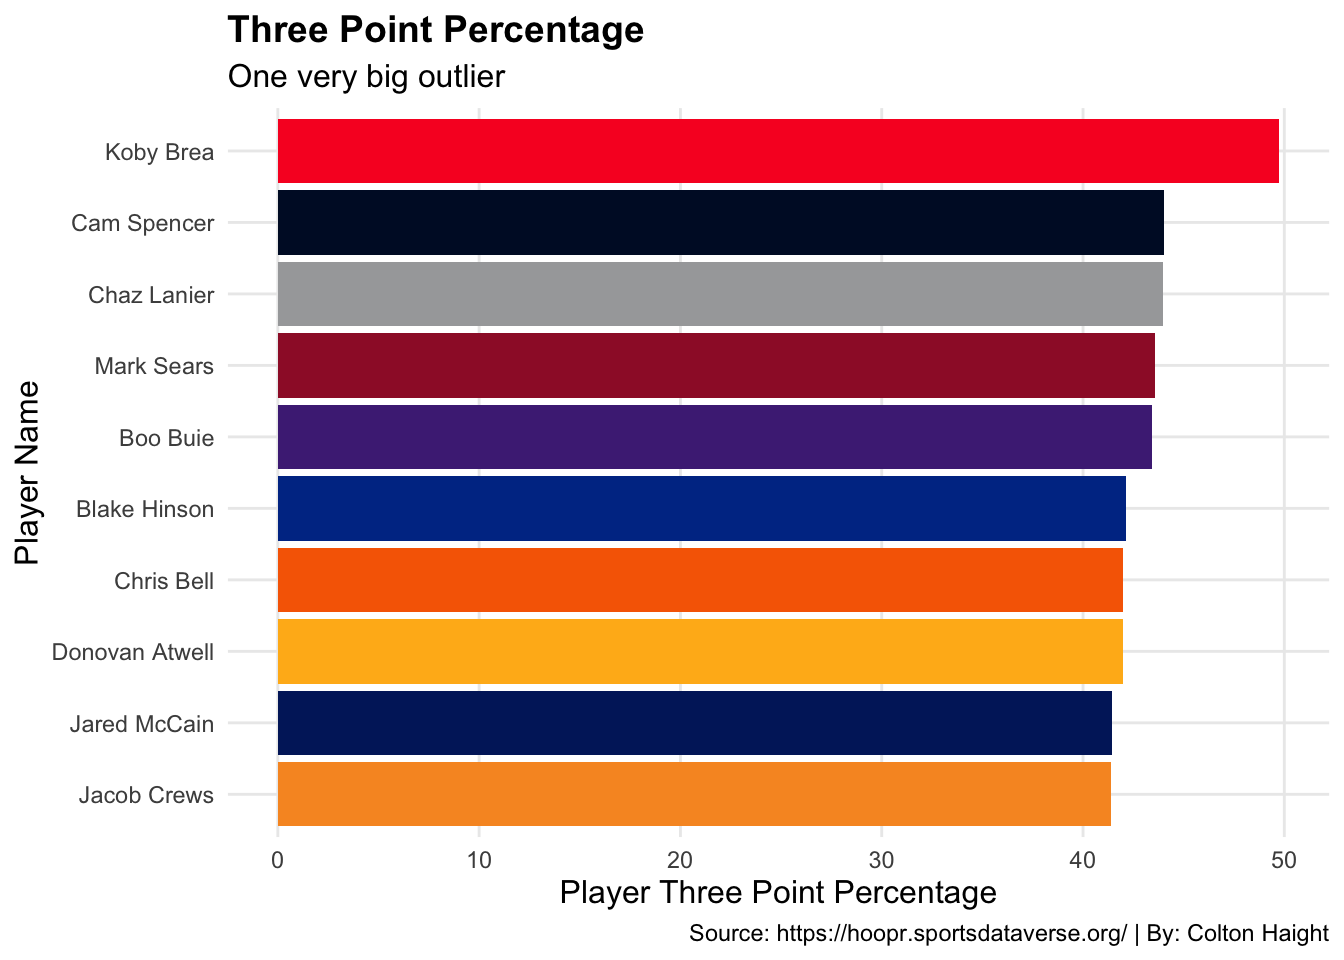
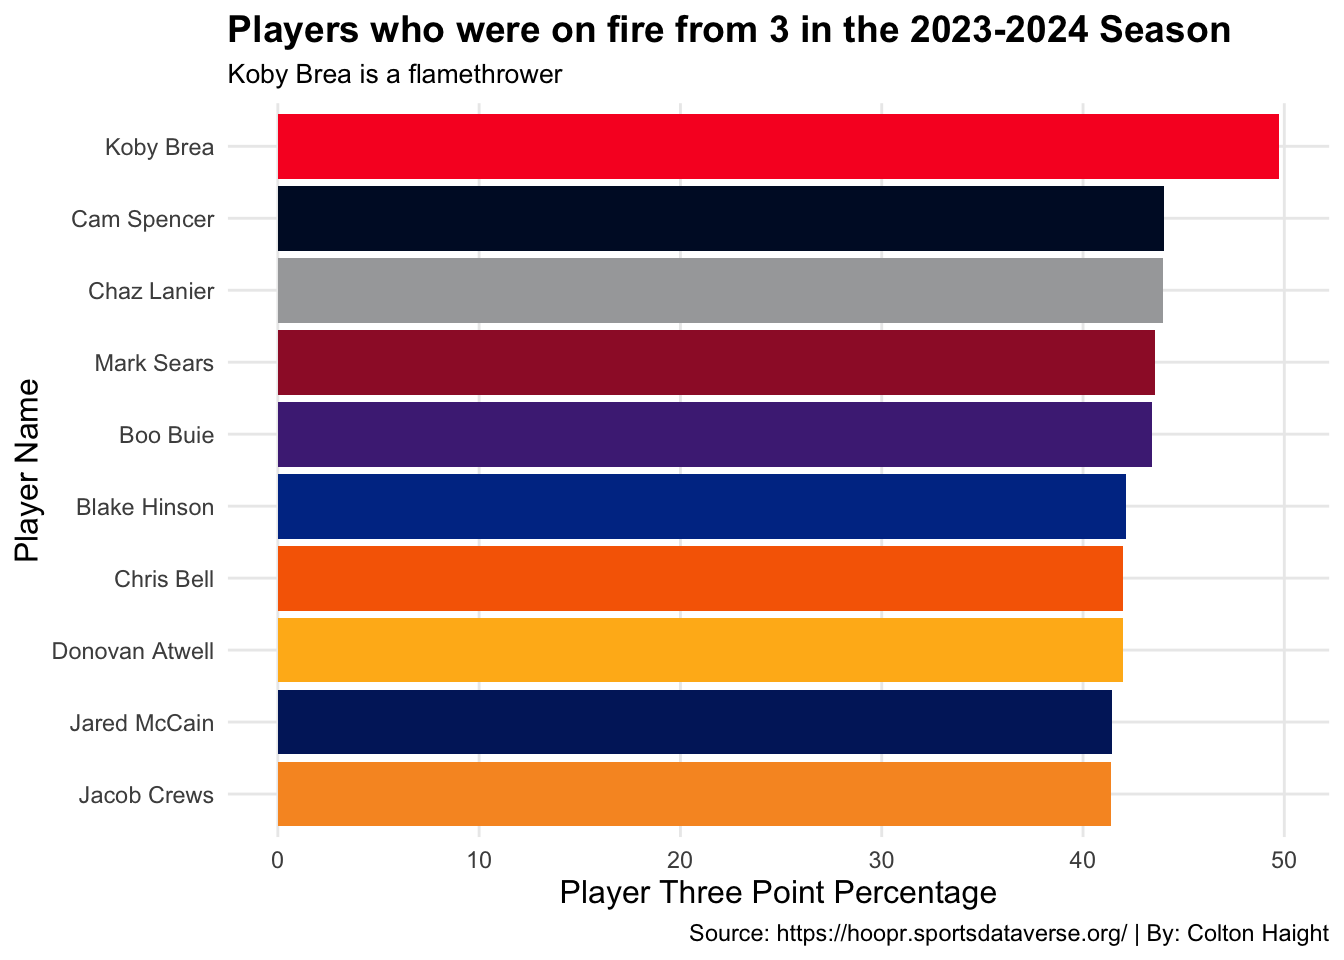
added a lot of text

diff --git a/posts/best-3pt-shooter-mcbb-2024/index.html b/posts/best-3pt-shooter-mcbb-2024/index.html
@@ -189,9 +189,9 @@ pre > code.sourceCode > span > a:first-child::before { text-decoration: underlin
 
 
 
-<p>Three point shooting is a relatively new concept in the sport of basketball. After this season, NCAA men’s basketball will have been around for 130 years. That’s an extremely long amount of time. But the three point line has only been a part of the game of basketball since 1986. Only about 40 years of the 130 year history of the game there has been a three point line. But with recent styles of play and popularity it seems like it could have been around for the entire time basketball has been an organized sport.</p>
+<p>Three point shooting is a relatively new concept in the sport of basketball. After this season, NCAA men’s basketbal will have been around for <a href="https://www.ncaa.com/news/basketball-men/article/2023-01-18/what-we-know-about-first-college-basketball-game-ever-played"><code>130 years</code></a>. That’s an extremely long amount of time. But the <a href="https://www.usab.com/news/2014/01/history-of-the-3-pointer"><code>three point line</code></a> has only been a part of the game of basketball since 1986. Only about 40 years of the 130 year history of the game there has been a three point line. But with recent styles of play and popularity it seems like it could have been around for the entire time basketball has been an organized sport.</p>
 <p>The recent surge in the volume of three pointers shot has risen a significant amount over just the last 10-15 years thanks to the success of Stephen Curry and the Golden State Warriors during their dynasty run. If you can not shoot three pointers in today’s game, you are falling behind.</p>
-<p>In professional basketball it is pretty easy to see who the best shooters are because there are only 30 teams and 18 players per team roster, or 540 players. But college basketball is a bit harder to figure out. There are a whopping 351 NCAA Division 1 men’s college basketball teams and with 15 players per roster that brings a total of 5,265 players!</p>
+<p>In professional basketball it is pretty easy to see who the best shooters are because there are only 30 teams and 18 players per team roster, or <a href="https://www.spotrac.com/news/_/id/2487/the-nbas-vanishing-15th-roster-spot#:~:text=The%20reality%20is%20that%20there,and%2090%20two%2Dway%20spots."><code>540</code></a> players. But college basketball is a bit harder to figure out. There are a whopping <a href="https://www.ncsasports.org/mens-basketball/division-1-colleges"><code>351</code></a> NCAA Division 1 men’s college basketball teams and with 15 players per roster that brings a total of 5,265 players!</p>
 <p>In this post we will be trying to figure out who the best three point shooter is in Division 1 men’s college basketball over the 2023-2024 season.</p>
 <p>The hoopR package from the <a href="https://www.sportsdataverse.org/packages"><code>sportsdataverse</code></a> and <a href="https://www.espn.com/mens-college-basketball/stats/player/_/season/2024/table/offensive/sort/avgPoints/dir/desc"><code>ESPN</code></a> have given me the data to help us figure out who could be the best three point shooter in all of D1 men’s college basketball last season.</p>
 <p>Let’s start by looking at a plot of all D1 men’s college basketball players who shot a total of at least 200 three pointers last season, comparing the total three pointers a player made to the amount of three point shots they took.</p>
@@ -235,7 +235,7 @@ pre > code.sourceCode > span > a:first-child::before { text-decoration: underlin
 <span id="cb1-35"><a href="#cb1-35" aria-hidden="true" tabindex="-1"></a>  <span class="fu">theme</span>(</span>
 <span id="cb1-36"><a href="#cb1-36" aria-hidden="true" tabindex="-1"></a>    <span class="at">plot.title =</span> <span class="fu">element_text</span>(<span class="at">size =</span> <span class="dv">14</span>, <span class="at">face =</span> <span class="st">"bold"</span>),</span>
 <span id="cb1-37"><a href="#cb1-37" aria-hidden="true" tabindex="-1"></a>    <span class="at">axis.title =</span> <span class="fu">element_text</span>(<span class="at">size =</span> <span class="dv">12</span>), </span>
-<span id="cb1-38"><a href="#cb1-38" aria-hidden="true" tabindex="-1"></a>    <span class="at">plot.subtitle =</span> <span class="fu">element_text</span>(<span class="at">size =</span> <span class="dv">12</span>), </span>
+<span id="cb1-38"><a href="#cb1-38" aria-hidden="true" tabindex="-1"></a>    <span class="at">plot.subtitle =</span> <span class="fu">element_text</span>(<span class="at">size =</span> <span class="dv">10</span>), </span>
 <span id="cb1-39"><a href="#cb1-39" aria-hidden="true" tabindex="-1"></a>    <span class="at">panel.grid.minor =</span> <span class="fu">element_blank</span>()</span>
 <span id="cb1-40"><a href="#cb1-40" aria-hidden="true" tabindex="-1"></a>  )</span></code><button title="Copy to Clipboard" class="code-copy-button"><i class="bi"></i></button></pre></div>
 </details>
@@ -272,7 +272,7 @@ pre > code.sourceCode > span > a:first-child::before { text-decoration: underlin
 <span id="cb2-19"><a href="#cb2-19" aria-hidden="true" tabindex="-1"></a>  <span class="fu">theme</span>(</span>
 <span id="cb2-20"><a href="#cb2-20" aria-hidden="true" tabindex="-1"></a>    <span class="at">plot.title =</span> <span class="fu">element_text</span>(<span class="at">size =</span> <span class="dv">14</span>, <span class="at">face =</span> <span class="st">"bold"</span>),</span>
 <span id="cb2-21"><a href="#cb2-21" aria-hidden="true" tabindex="-1"></a>    <span class="at">axis.title =</span> <span class="fu">element_text</span>(<span class="at">size =</span> <span class="dv">12</span>), </span>
-<span id="cb2-22"><a href="#cb2-22" aria-hidden="true" tabindex="-1"></a>    <span class="at">plot.subtitle =</span> <span class="fu">element_text</span>(<span class="at">size =</span> <span class="dv">12</span>), </span>
+<span id="cb2-22"><a href="#cb2-22" aria-hidden="true" tabindex="-1"></a>    <span class="at">plot.subtitle =</span> <span class="fu">element_text</span>(<span class="at">size =</span> <span class="dv">10</span>), </span>
 <span id="cb2-23"><a href="#cb2-23" aria-hidden="true" tabindex="-1"></a>    <span class="at">panel.grid.minor =</span> <span class="fu">element_blank</span>()</span>
 <span id="cb2-24"><a href="#cb2-24" aria-hidden="true" tabindex="-1"></a>)</span></code><button title="Copy to Clipboard" class="code-copy-button"><i class="bi"></i></button></pre></div>
 </details>
@@ -285,9 +285,9 @@ pre > code.sourceCode > span > a:first-child::before { text-decoration: underlin
 </div>
 </div>
 <p>The two outliers are Jack Gohlke of the Oakland Golden Grizzlies and Tyler Thomas of the Hofstra Pride. The sheer number of three pointers shot and made by these two players last season are head and shoulders above every other player in men’s college basketball. Gohlke made 137 three pointers on the season while Thomas made 125 three pointers.</p>
-<p>Jack Gohlke had a crazy run in the NCAA Men’s Tournament last season where he went 10-20 from behind the arc in an upset win over 3rd seeded Kentucky as the 14th seed. He also knocked down 6 more threes in the next game of the tournament against NC State but fell short and were defeated.</p>
-<p>Tyler Thomas and Hofstra unfortunately failed to reach the NCAA Tournament last season but he still had a great three point shooting season.</p>
-<p>The next best way to judge how good of a shooter a player is will be by looking at the percentage they make. In any level of basketball shooting 40% on three pointers means you are an extremely efficient shooter, so let’s narrow down our group of players from before to players who made at least 40% of the three pointers they shot last season. Let’s also plot out the amount of points these players scored because a great shooter should also have a good variety of ways to get points in their arsenal. The size of dots will also be based off of the amount of threes a player made last season.</p>
+<p><a href="https://www.espn.com/mens-college-basketball/player/gamelog/_/id/5177205/jack-gohlke"><code>Jack Gohlke</code></a> had a crazy run in the NCAA Men’s Tournament last season where he went 10-20 from behind the arc in an upset win over 3rd seeded Kentucky as the 14th seed. He also knocked down 6 more threes in the next game of the tournament against NC State but fell short and were defeated.</p>
+<p><a href="https://www.espn.com/mens-college-basketball/player/gamelog/_/id/4593126/tyler-thomas"><code>Tyler Thomas</code></a> and Hofstra unfortunately failed to reach the NCAA Tournament last season but he still had a great three point shooting season.</p>
+<p>The next best way to judge how good of a shooter a player is will be by looking at the percentage they make. In any level of basketball shooting 40% on three pointers means you are an extremely efficient shooter, so let’s narrow down our group of players from before to players who made at least 40% of the three pointers they shot last season. Let’s also plot out the amount of points these players scored because a great three point shooter should also have a good amount of points. The size of dots will also be based off of the amount of threes a player made last season.</p>
 <div class="cell">
 <details class="code-fold">
 <summary>Code</summary>
@@ -320,7 +320,7 @@ pre > code.sourceCode > span > a:first-child::before { text-decoration: underlin
 <span id="cb3-27"><a href="#cb3-27" aria-hidden="true" tabindex="-1"></a>  <span class="fu">theme</span>(</span>
 <span id="cb3-28"><a href="#cb3-28" aria-hidden="true" tabindex="-1"></a>    <span class="at">plot.title =</span> <span class="fu">element_text</span>(<span class="at">size =</span> <span class="dv">14</span>, <span class="at">face =</span> <span class="st">"bold"</span>),</span>
 <span id="cb3-29"><a href="#cb3-29" aria-hidden="true" tabindex="-1"></a>    <span class="at">axis.title =</span> <span class="fu">element_text</span>(<span class="at">size =</span> <span class="dv">12</span>), </span>
-<span id="cb3-30"><a href="#cb3-30" aria-hidden="true" tabindex="-1"></a>    <span class="at">plot.subtitle =</span> <span class="fu">element_text</span>(<span class="at">size =</span> <span class="dv">12</span>), </span>
+<span id="cb3-30"><a href="#cb3-30" aria-hidden="true" tabindex="-1"></a>    <span class="at">plot.subtitle =</span> <span class="fu">element_text</span>(<span class="at">size =</span> <span class="dv">10</span>), </span>
 <span id="cb3-31"><a href="#cb3-31" aria-hidden="true" tabindex="-1"></a>    <span class="at">panel.grid.minor =</span> <span class="fu">element_blank</span>()</span>
 <span id="cb3-32"><a href="#cb3-32" aria-hidden="true" tabindex="-1"></a>)</span></code><button title="Copy to Clipboard" class="code-copy-button"><i class="bi"></i></button></pre></div>
 </details>
@@ -332,7 +332,12 @@ pre > code.sourceCode > span > a:first-child::before { text-decoration: underlin
 </div>
 </div>
 </div>
-<p>hello</p>
+<p>Looking at the plot above, a few things are very clear.</p>
+<p><a href="https://www.espn.com/mens-college-basketball/player/stats/_/id/4591259/koby-brea"><code>Koby Brea</code></a> is a flamethrower from behind the arc. He made almost half the threes he took last year. He shot 201 three pointers and made 100 of them last season. That’s a blistering <strong>49.8%</strong>! He might not have scored close to some of the other guys on the plot but near 50% is extremely impressive.</p>
+<p>Next, <a href="https://www.espn.com/mens-college-basketball/player/stats/_/id/4703530/mark-sears"><code>Mark Sears</code></a> is a pure scorer. While shooting 43.6% from three point land he was also far and away the highest scorer on this list, scoring close to 800 points last season while also being a huge part of an Alabama final four run in the 2023-2024 season.</p>
+<p>Last thing, <a href="https://www.espn.com/nba/player/gamelog/_/id/4433083/type/mens-college-basketball"><code>Cam Spencer</code></a> was huge in UConns second title run in a row. He shot a very efficient 44% from three while also being a big time scorer for the Back to Back National Champions.</p>
+<p>We are almost able to crown college basketball’s best shooter for the 2023-2024 season. Let’s narrow down each category to get the top ten of each type of statistic that was talked about previously and get some charts comparing them to each other.</p>
+<p>Here are a few bar charts of the top ten players in each category we looked at for three point shooting. The first bar chart is comparing the different amount of points scored from three pointers and points scored not from three pointers for different players. The second bar chart is just comparing the most three pointers made by different players. And the last one is just comparing three point percentages.</p>
 <div class="cell">
 <details class="code-fold">
 <summary>Code</summary>
@@ -421,6 +426,9 @@ pre > code.sourceCode > span > a:first-child::before { text-decoration: underlin
 </div>
 </div>
 </div>
+<p>These two plots are pretty similar to each other. The top plot is interesting to me because there are a few players that stand out as what I would call pure shooters. I would classify pure shooters as players where almost all of their shots are from behind the arc. Jack Gohlke, Ja’Monta Black, Gabe Dorsey, and Reyne Smith are those few players with the most points from three pointers and the fewest amount of points not from three pointers.</p>
+<p>The bottom plot goes hand in hand with the Type of Point plot above but just lets us focus on one thing, the total three pointers made. This plot has all of the same players in the same spots from the top plot but I think it helps us compare the players a bit better by the amount of threes each of them made during the 2023-2024 season.</p>
+<p>Let’s look at the comparison of player three point percentage on the plot below.</p>
 <div class="cell">
 <details class="code-fold">
 <summary>Code</summary>
@@ -451,15 +459,15 @@ pre > code.sourceCode > span > a:first-child::before { text-decoration: underlin
 <span id="cb5-25"><a href="#cb5-25" aria-hidden="true" tabindex="-1"></a>  <span class="fu">labs</span>(</span>
 <span id="cb5-26"><a href="#cb5-26" aria-hidden="true" tabindex="-1"></a>    <span class="at">x =</span> <span class="st">"Player Name"</span>,</span>
 <span id="cb5-27"><a href="#cb5-27" aria-hidden="true" tabindex="-1"></a>    <span class="at">y =</span> <span class="st">"Player Three Point Percentage"</span>,</span>
-<span id="cb5-28"><a href="#cb5-28" aria-hidden="true" tabindex="-1"></a>    <span class="at">title =</span> <span class="st">"Three Point Percentage"</span>,</span>
-<span id="cb5-29"><a href="#cb5-29" aria-hidden="true" tabindex="-1"></a>    <span class="at">subtitle =</span> <span class="st">"One very big outlier"</span>,</span>
+<span id="cb5-28"><a href="#cb5-28" aria-hidden="true" tabindex="-1"></a>    <span class="at">title =</span> <span class="st">"Players who were on fire from 3 in the 2023-2024 Season"</span>,</span>
+<span id="cb5-29"><a href="#cb5-29" aria-hidden="true" tabindex="-1"></a>    <span class="at">subtitle =</span> <span class="st">"Koby Brea is a flamethrower"</span>,</span>
 <span id="cb5-30"><a href="#cb5-30" aria-hidden="true" tabindex="-1"></a>    <span class="at">caption =</span> <span class="st">"Source: https://hoopr.sportsdataverse.org/ | By: Colton Haight"</span></span>
 <span id="cb5-31"><a href="#cb5-31" aria-hidden="true" tabindex="-1"></a>  ) <span class="sc">+</span></span>
 <span id="cb5-32"><a href="#cb5-32" aria-hidden="true" tabindex="-1"></a>  <span class="fu">theme_minimal</span>() <span class="sc">+</span></span>
 <span id="cb5-33"><a href="#cb5-33" aria-hidden="true" tabindex="-1"></a>  <span class="fu">theme</span>(</span>
 <span id="cb5-34"><a href="#cb5-34" aria-hidden="true" tabindex="-1"></a>    <span class="at">plot.title =</span> <span class="fu">element_text</span>(<span class="at">size =</span> <span class="dv">14</span>, <span class="at">face =</span> <span class="st">"bold"</span>),</span>
 <span id="cb5-35"><a href="#cb5-35" aria-hidden="true" tabindex="-1"></a>    <span class="at">axis.title =</span> <span class="fu">element_text</span>(<span class="at">size =</span> <span class="dv">12</span>), </span>
-<span id="cb5-36"><a href="#cb5-36" aria-hidden="true" tabindex="-1"></a>    <span class="at">plot.subtitle =</span> <span class="fu">element_text</span>(<span class="at">size =</span> <span class="dv">12</span>), </span>
+<span id="cb5-36"><a href="#cb5-36" aria-hidden="true" tabindex="-1"></a>    <span class="at">plot.subtitle =</span> <span class="fu">element_text</span>(<span class="at">size =</span> <span class="dv">10</span>), </span>
 <span id="cb5-37"><a href="#cb5-37" aria-hidden="true" tabindex="-1"></a>    <span class="at">panel.grid.minor =</span> <span class="fu">element_blank</span>()</span>
 <span id="cb5-38"><a href="#cb5-38" aria-hidden="true" tabindex="-1"></a>  )</span></code><button title="Copy to Clipboard" class="code-copy-button"><i class="bi"></i></button></pre></div>
 </details>
@@ -471,6 +479,10 @@ pre > code.sourceCode > span > a:first-child::before { text-decoration: underlin
 </div>
 </div>
 </div>
+<p>Here we get to look at some different names. There is an obvious outlier here. Koby Brea was an absolute flamethrower shooting <strong>49.8%</strong> from behind the arc, an insane percentage. But we already talked about Koby Brea earlier, let’s talk about some other guys on this list. <a href="https://www.espn.com/nba/player/gamelog/_/id/4592712/type/mens-college-basketball"><code>Boo Buie</code></a> was a big time player for Northwestern last season. He shot an extremely efficient 43.4% from three point land while leading the Wildcats to a second round appearance in the NCAA Tournament last season. Another big name is <a href="https://www.espn.com/nba/player/gamelog/_/id/4683778/type/mens-college-basketball"><code>Jared McCain</code></a>. In his first and only season at Duke, he was a huge piece in their elite eight run in the NCAA Tournament last season. He shot 41.4% from three in the regular season and a blazing 50% from three during that Elite Eight run.</p>
+<p>There are a lot of great players that we just talked about but the question still remains: who was the best three point shooter from the 2023-2024 season?</p>
+<p>There was one guy that was on every plot and chart above. <a href="https://www.espn.com/nba/player/gamelog/_/id/4396963/type/mens-college-basketball"><code>Blake Hinson</code></a> was in the top 10 in three pointers made and in points from three’s while also being 6th in three point percentage in all players from college basketball last season. For Pitt he shot 42.1% from three on a high volume of almost 8 attempts a game while also putting up 609 points on the season or 18.5 points a game. He scored 54.2% of his points from three point range(330) which shows how versatile he was for Pitt while also being a great shooter. Unfortunately, Pitt did not make the NCAA Tournament after losing in the second round of the ACC Tournament last season so we did not get to see Blake Hinson in action when the stakes are the highest.</p>
+<p>With all of this information I think there is enough evidence to crown Blake Hinson as the best three point shooter for the 2023-2024 NCAA men’s basketball season.</p>
 
 
 

diff --git a/index.html b/index.html
@@ -205,7 +205,7 @@ window.Quarto = {
 
 <div class="quarto-listing quarto-listing-container-default" id="listing-listing">
 <div class="list quarto-listing-default">
-<div class="quarto-post image-right" data-index="0" data-categories="TkNBQSxCYXNrZXRiYWw=" data-listing-date-sort="1731823200000" data-listing-file-modified-sort="1731455279161" data-listing-date-modified-sort="NaN" data-listing-reading-time-sort="11" data-listing-word-count-sort="2096">
+<div class="quarto-post image-right" data-index="0" data-categories="TkNBQSxCYXNrZXRiYWw=" data-listing-date-sort="1731823200000" data-listing-file-modified-sort="1731615434316" data-listing-date-modified-sort="NaN" data-listing-reading-time-sort="15" data-listing-word-count-sort="2844">
 <div class="thumbnail">
 <p><a href="./posts/best-3pt-shooter-mcbb-2024/index.html" class="no-external"></a></p><a href="./posts/best-3pt-shooter-mcbb-2024/index.html" class="no-external">
 <p><img loading="lazy" src="./posts/best-3pt-shooter-mcbb-2024/plotcoverphoto.png" class="thumbnail-image"></p>
@@ -227,7 +227,7 @@ Basketbal
 </div>
 </div>
 <div class="listing-description">
-<a href="./posts/best-3pt-shooter-mcbb-2024/index.html" class="no-external">Three point shooting is a relatively new concept in the sport of basketball. After this season, NCAA men’s basketball will have been around for 130 years. That’s an…</a>
+<a href="./posts/best-3pt-shooter-mcbb-2024/index.html" class="no-external">Three point shooting is a relatively new concept in the sport of basketball. After this season, NCAA men’s basketbal will have been around for <code>130 years</code>. That’s an extremely…<code></code></a>
 </div>
 </div>
 <div class="metadata">
